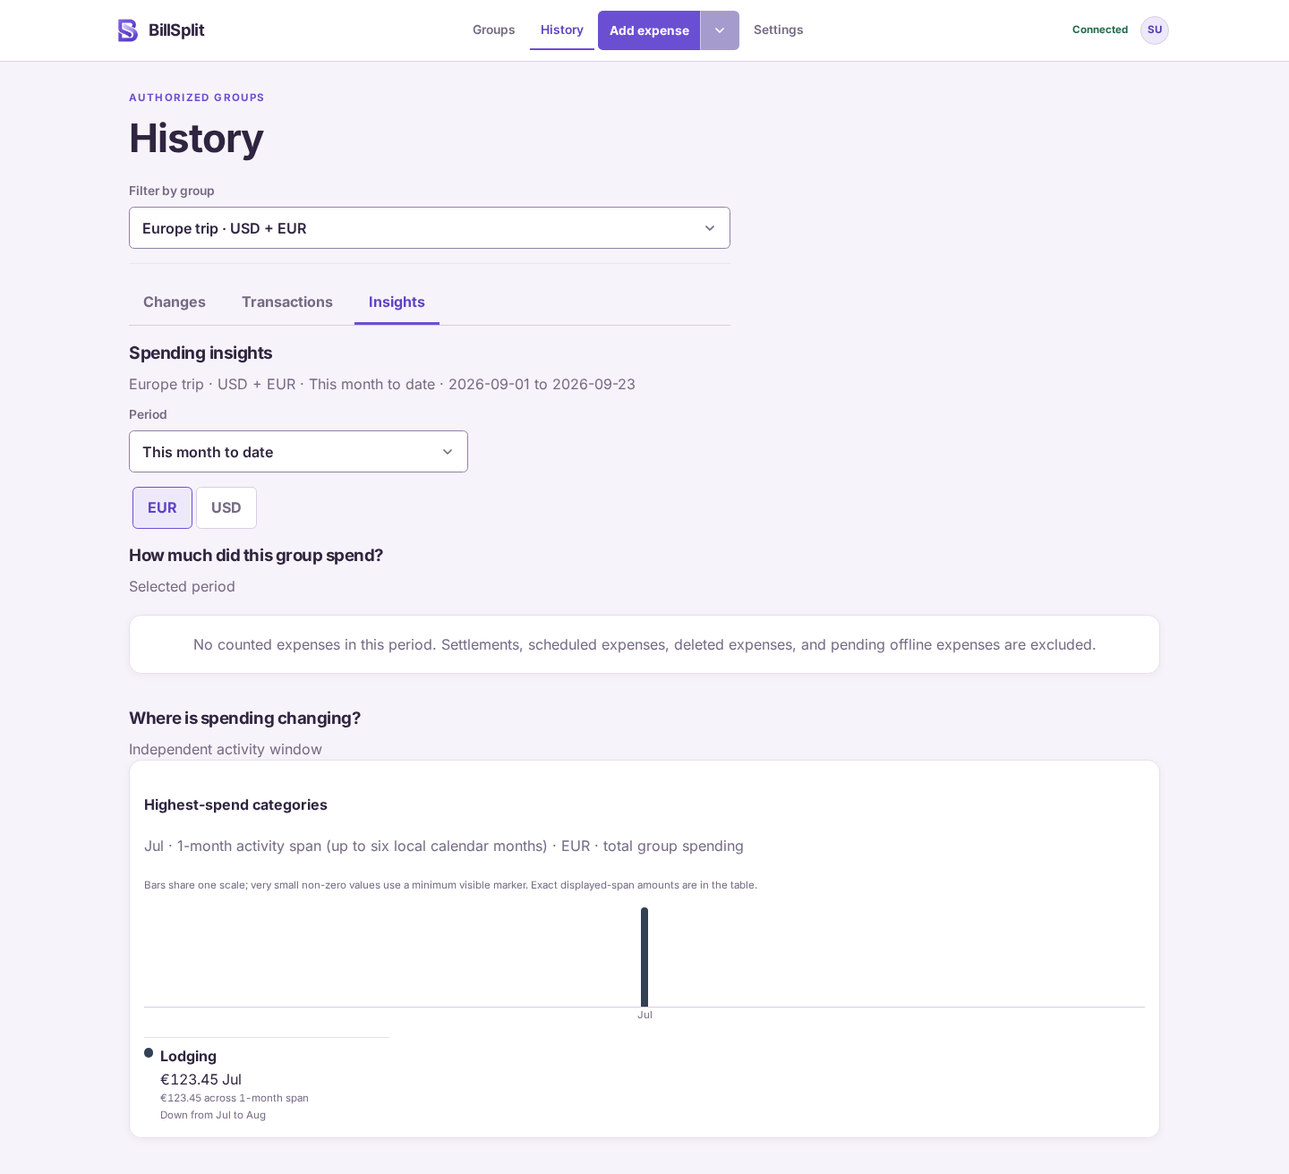
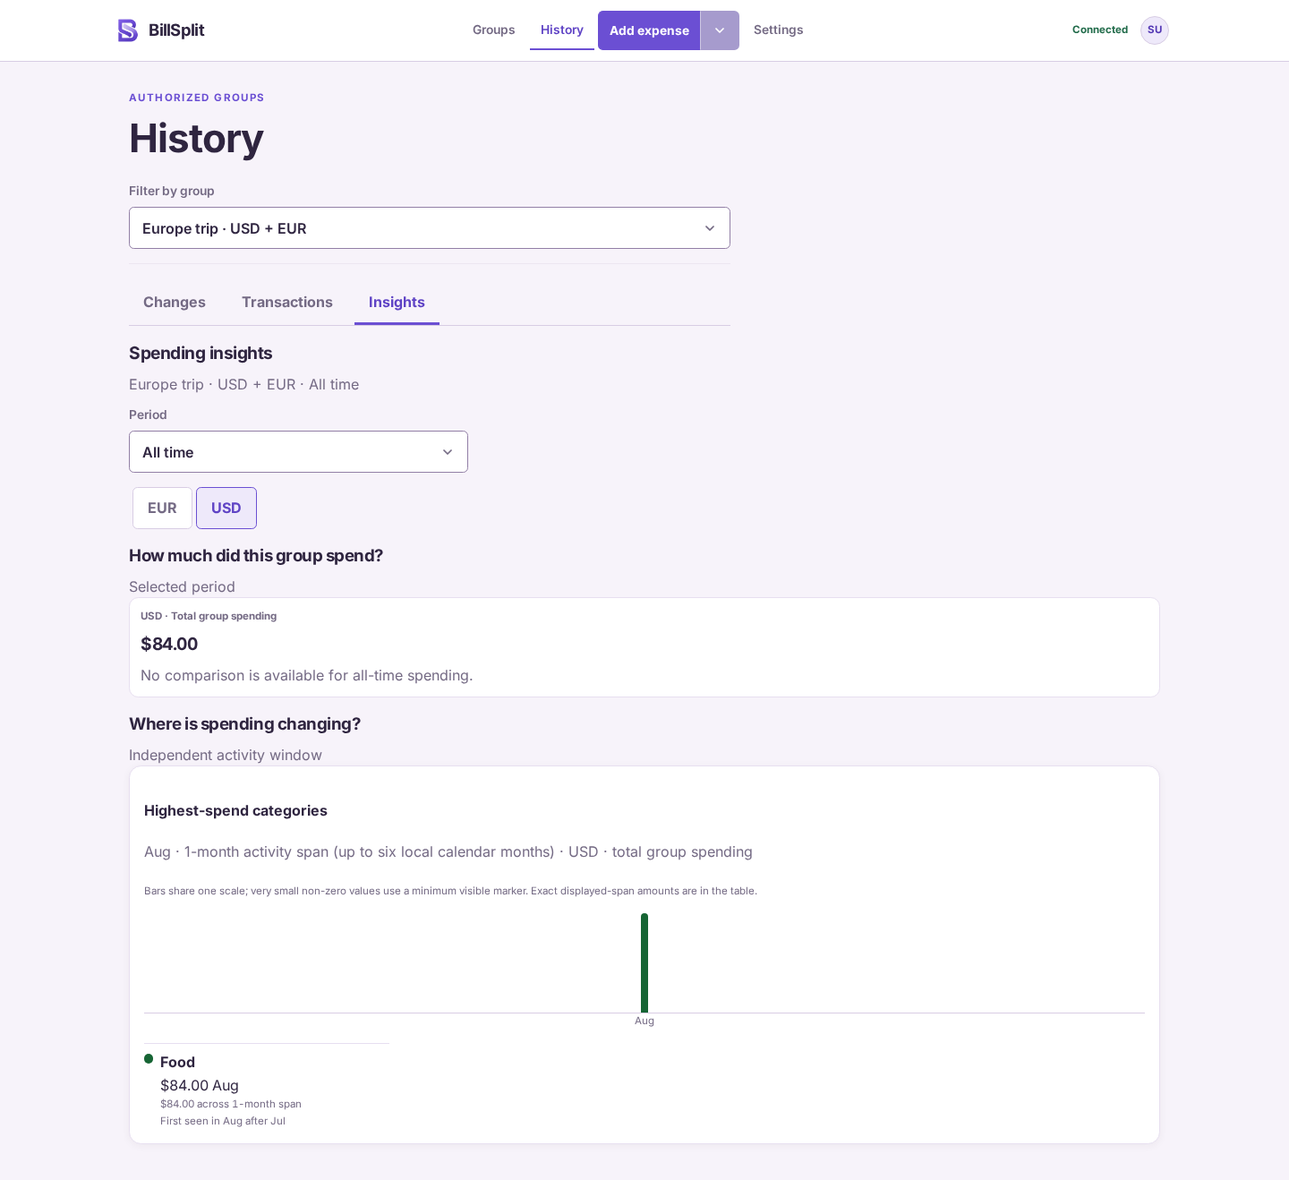
Align Home cards and Insights summaries (#30)

diff --git a/tests/e2e/home-insights-surfaces.spec.ts b/tests/e2e/home-insights-surfaces.spec.ts
@@ -1,0 +1,109 @@
+import { test, expect, newAuthenticatedContext, BASE_URL, DEV_EMAIL } from './fixtures';
+
+const shortId = '00000000-0000-4000-8000-000000003001';
+const longId = '00000000-0000-4000-8000-000000003003';
+const insightsId = '00000000-0000-4000-8000-000000003002';
+
+test('Home cards retain compact, accessible balance geometry across the navigation boundary', async ({ browser }) => {
+  for (const width of [320, 390, 768, 895, 896, 1440]) {
+    const context = await newAuthenticatedContext(browser, DEV_EMAIL, { width, height: 844 }, { serviceWorkers: 'block' });
+    try {
+      const page = await context.newPage();
+      await page.route('**/api/groups', async (route) => {
+        const response = await route.fetch();
+        const body = await response.json();
+        await route.fulfill({ response, json: { ...body, groups: [
+          { ...body.groups[0], id: shortId, name: 'Li Ling', currency: 'SGD', kind: 'named', memberCount: 2, balanceSummaries: [{ currency: 'SGD', netMinor: 4216 }] },
+          { ...body.groups.find((group: { id: string }) => group.id === longId), name: 'Maternity household and shared care expenses', currency: 'SGD', kind: 'named', memberCount: 9, balanceSummaries: [{ currency: 'SGD', netMinor: 543972 }, { currency: 'EUR', netMinor: -12345 }] },
+        ] } });
+      });
+      await page.goto(`${BASE_URL}/`);
+      await expect(page.getByRole('heading', { name: 'Friends & groups' })).toBeVisible();
+      const cards = page.locator('a.group-card');
+      await expect(cards).toHaveCount(2);
+      for (const [index, id] of [shortId, longId].entries()) {
+        await expect(cards.nth(index)).toHaveAttribute('href', `/groups/${id}`);
+        await expect(cards.nth(index)).toHaveAccessibleName(index === 0 ? /Li Ling.*SGD.*42\.16/s : /Maternity household.*SGD.*5,439\.72.*EUR.*123\.45/s);
+      }
+      const geometry = await page.evaluate(() => {
+        const cards = [...document.querySelectorAll<HTMLElement>('.group-card')];
+        const rect = (element: Element) => element.getBoundingClientRect();
+        const probe = document.createElement('div');
+        probe.style.cssText = 'background: var(--color-surface); border: 1px solid var(--color-border)';
+        document.body.append(probe);
+        const surfaceColor = getComputedStyle(probe).backgroundColor;
+        const border = getComputedStyle(probe).borderTopColor;
+        probe.remove();
+        return {
+          clientWidth: document.documentElement.clientWidth,
+          scale: visualViewport?.scale,
+          scrollWidth: document.documentElement.scrollWidth,
+          cards: cards.map((card) => ({
+            box: { left: rect(card).left, right: rect(card).right, top: rect(card).top, bottom: rect(card).bottom, height: rect(card).height },
+            gap: rect(card.querySelector('.card__balances')!).top - rect(card.querySelector('.group-card__identity')!).bottom,
+            paintedRows: [...card.querySelectorAll('.card__balance')].filter((row) => {
+              const style = getComputedStyle(row);
+              return style.backgroundColor !== 'rgba(0, 0, 0, 0)' || style.boxShadow !== 'none' || parseFloat(style.borderTopWidth) > 0;
+            }).length,
+            balances: [...card.querySelectorAll('.card__balance')].map((row) => row.textContent?.trim()),
+            clipped: [...card.querySelectorAll<HTMLElement>('.group-card__identity, .card__balances, .card__balance, .money')].some((child) => child.scrollWidth > child.clientWidth + 1 || rect(child).right > rect(card).right + 1),
+            background: getComputedStyle(card).backgroundColor,
+            border: getComputedStyle(card).borderTopColor,
+            borderWidth: getComputedStyle(card).borderTopWidth,
+          })),
+          surfaceColor,
+          border,
+          actions: [...document.querySelectorAll('.home-actions a')].map((link) => link.getAttribute('href')),
+          nav: { mobile: getComputedStyle(document.querySelector('.bottom-nav')!).display, desktop: getComputedStyle(document.querySelector('.desktop-nav')!).display },
+        };
+      });
+      expect(geometry.scrollWidth, JSON.stringify({ width, geometry })).toBeLessThanOrEqual(geometry.clientWidth);
+      expect(geometry.cards.every((card) => card.background === geometry.surfaceColor && card.border === geometry.border && card.borderWidth === '1px' && !card.clipped && !card.paintedRows && card.gap >= 0 && card.gap <= 24 && card.box.left >= 0 && card.box.right <= geometry.clientWidth + 1), JSON.stringify({ width, geometry })).toBe(true);
+      expect(geometry.cards[0].balances).toEqual([expect.stringMatching(/SGD.*42\.16/)]);
+      expect(geometry.cards[1].balances).toEqual([expect.stringMatching(/SGD.*5,439\.72/), expect.stringMatching(/EUR.*123\.45/)]);
+      for (const balance of geometry.cards.flatMap((card) => card.balances)) expect(balance?.match(/(?:SGD|EUR)/g)).toHaveLength(1);
+      expect(geometry.cards[0].box.height).toBeLessThan(geometry.cards[1].box.height);
+      expect(geometry.cards[0].box.top === geometry.cards[1].box.top).toBe(width >= 896);
+      const intercardGap = width >= 896
+        ? geometry.cards[1].box.left - geometry.cards[0].box.right
+        : geometry.cards[1].box.top - geometry.cards[0].box.bottom;
+      expect(intercardGap, JSON.stringify({ width, geometry })).toBeGreaterThan(0);
+      expect(intercardGap, JSON.stringify({ width, geometry })).toBeLessThanOrEqual(32);
+      expect(geometry.actions).toEqual(['/friends/new', '/groups/new']);
+      expect(geometry.nav.mobile === 'none').toBe(width >= 896);
+      expect(geometry.nav.desktop === 'none').toBe(width < 896);
+    } finally {
+      await context.close();
+    }
+  }
+});
+
+for (const width of [390, 1440]) {
+  for (const scope of ['global', 'group'] as const) {
+    test(`${scope} Insights summary and chart are independent painted modules at ${width}px`, async ({ authenticatedPage: page }) => {
+      await page.setViewportSize({ width, height: 844 });
+      await page.goto(`/activity?${scope === 'group' ? `group=${insightsId}&` : ''}view=insights&period=all&currency=USD`);
+      await expect(page.getByRole('navigation', { name: 'History views' }).getByRole('link', { name: 'Insights' })).toHaveAttribute('aria-current', 'page');
+      await expect(page.getByRole('tablist', { name: 'Spending insight currencies' }).getByRole('tab', { name: 'USD' })).toHaveAttribute('aria-selected', 'true');
+      await expect(page.getByLabel('Selected-period spending summary')).toBeVisible();
+      await expect(page.getByRole('group', { name: 'USD category spending chart' })).toBeVisible();
+      const geometry = await page.evaluate(() => {
+        const summary = document.querySelector('.insight-summary-card')!;
+        const chart = document.querySelector('.insight-category-trends')!;
+        const color = (node: Element) => getComputedStyle(node).backgroundColor;
+        return {
+          expected: (() => { const probe = document.createElement('div'); probe.style.backgroundColor = 'var(--color-surface)'; document.body.append(probe); const result = color(probe); probe.remove(); return result; })(),
+          summary: color(summary), chart: color(chart),
+          sections: [...document.querySelectorAll('.insight-section')].map(color),
+          separate: !summary.contains(chart) && !chart.contains(summary) && summary.closest('.insight-section') !== chart.closest('.insight-section'),
+          overflow: document.documentElement.scrollWidth > document.documentElement.clientWidth,
+        };
+      });
+      expect(geometry.summary).toBe(geometry.expected);
+      expect(geometry.chart).toBe(geometry.summary);
+      expect(geometry.sections).toEqual(['rgba(0, 0, 0, 0)', 'rgba(0, 0, 0, 0)']);
+      expect(geometry.separate).toBe(true);
+      expect(geometry.overflow).toBe(false);
+    });
+  }
+}

diff --git a/src/app/App.tsx b/src/app/App.tsx
@@ -293,7 +293,7 @@ function Home() {
        <PageHeader className="page-title" eyebrow="Private expenses" title="Friends & groups" actions={<ActionGroup className="home-actions"><Link className="button" to="/friends/new">Add friend</Link><Link className="button button--secondary" to="/groups/new">New group</Link></ActionGroup>} />
         <PendingInvitations userId={me.data?.id} online={online && !offline} />
        {!online || offline ? <ConnectionBanner detail="showing your last verified groups. Friend and group creation require a connection; Add Expense remains available from cached groups." /> : null}{groupsResource.data !== undefined ? <CachedIdentityNotice resource={me} id="groups-identity-error" /> : null}{groupsResource.data === undefined && me.error ? <ErrorBox error={me.error} onRetry={retryFor(resourceKeys.identity(), '')} id="identity-error" retryLabel="Retry identity check" /> : null}
-       {groupsResource.data === undefined && !me.error ? <ResourceNotice resource={groupsResource} label="groups" retry={retryFor(resourceKeys.groups(me.data?.id || 'pending'), me.data?.id)} /> : groupsResource.data !== undefined ? <><ResourceNotice resource={groupsResource} label="groups" retry={retryFor(resourceKeys.groups(me.data?.id || 'pending'), me.data?.id)} />{groups.length ? <div className="cards group-cards">{groups.map((group) => { const people = [{ name: 'You' }, ...(group.counterpartName ? [{ name: group.counterpartName }] : [])]; return <Link className="card group-card" to={`/groups/${group.id}`} key={group.id}><div className="group-card__identity"><div className="group-card__heading"><AvatarStack people={people} /><strong className="card__name">{groupDisplayName(group)}</strong></div><span className="group-card__meta">{group.memberCount ? `${group.memberCount} ${group.memberCount === 1 ? 'person' : 'people'}` : group.kind === 'peer' ? 'Friend ledger' : 'Shared ledger'} · {group.currency}</span></div><div className="card__balances">{groupBalanceDisplays(group.balanceSummaries, group.currency).map((display, index) => display.kind === 'balance' ? <span className="card__balance" key={`${display.currency}-${index}`}><span className="card__balance-label">{display.label}</span><span className="card__balance-money"><Money amountMinor={display.amountMinor} currency={display.currency} tone={display.label === 'You are owed' ? 'positive' : 'debt'} /><small>{display.currency}</small></span></span> : <span className={`card__balance card__balance--${display.kind}`} key={`${display.label}-${index}`}><span className="card__balance-label">{display.label}</span><small>{display.currency}</small></span>)}</div></Link>; })}</div> : <EmptyState title="No groups yet"><p className="empty-state__copy">Start a friend ledger for a quick one-to-one split, or create a shared group for a trip or household.</p><div className="empty-state__actions"><Link className="button" to="/friends/new">Add a friend</Link><Link className="button button--secondary" to="/groups/new">Create a group</Link></div></EmptyState>}</> : null}
+        {groupsResource.data === undefined && !me.error ? <ResourceNotice resource={groupsResource} label="groups" retry={retryFor(resourceKeys.groups(me.data?.id || 'pending'), me.data?.id)} /> : groupsResource.data !== undefined ? <><ResourceNotice resource={groupsResource} label="groups" retry={retryFor(resourceKeys.groups(me.data?.id || 'pending'), me.data?.id)} />{groups.length ? <div className="cards group-cards">{groups.map((group) => { const people = [{ name: 'You' }, ...(group.counterpartName ? [{ name: group.counterpartName }] : [])]; return <Link className="card group-card ui-card-surface" to={`/groups/${group.id}`} key={group.id}><div className="group-card__identity"><div className="group-card__heading"><AvatarStack people={people} /><strong className="card__name">{groupDisplayName(group)}</strong></div><span className="group-card__meta">{group.memberCount ? `${group.memberCount} ${group.memberCount === 1 ? 'person' : 'people'}` : group.kind === 'peer' ? 'Friend ledger' : 'Shared ledger'} · {group.currency}</span></div><div className="card__balances">{groupBalanceDisplays(group.balanceSummaries, group.currency).map((display, index) => display.kind === 'balance' ? <span className="card__balance" key={`${display.currency}-${index}`}><span className="card__balance-label">{display.label}</span><span className="card__balance-money"><Money amountMinor={display.amountMinor} currency={display.currency} currencyDisplay="code" tone={display.label === 'You are owed' ? 'positive' : 'debt'} /></span></span> : <span className={`card__balance card__balance--${display.kind}`} key={`${display.label}-${index}`}><span className="card__balance-label">{display.label}</span><small>{display.currency}</small></span>)}</div></Link>; })}</div> : <EmptyState title="No groups yet"><p className="empty-state__copy">Start a friend ledger for a quick one-to-one split, or create a shared group for a trip or household.</p><div className="empty-state__actions"><Link className="button" to="/friends/new">Add a friend</Link><Link className="button button--secondary" to="/groups/new">Create a group</Link></div></EmptyState>}</> : null}
        <CompactInsights userId={me.data?.id} global title="Spending snapshot" />
   </Layout>;
 }

diff --git a/src/app/theme/theme.test.ts b/src/app/theme/theme.test.ts
@@ -13,6 +13,7 @@ const base = read('base.css');
 const foundations = read('foundations.css');
 const shell = read('shell.css');
 const responsive = read('responsive.css');
+const homeCreation = read('home-creation.css');
 const appSource = readFileSync(new URL('../App.tsx', import.meta.url), 'utf8');
 const errorBoundarySource = readFileSync(new URL('../ErrorBoundary.tsx', import.meta.url), 'utf8');
 const uiSource = readFileSync(new URL('../ui.tsx', import.meta.url), 'utf8');
@@ -120,6 +121,15 @@ describe('Warm Ledger visual system', () => {
     expect(895).toBeLessThan(896);
   });
 
+  it('keeps group cards single-column until desktop and content-height beside taller cards', () => {
+    expect(homeCreation).toMatch(/\.group-cards\s*\{\s*align-items: start;\s*\}/);
+    expect(homeCreation).not.toMatch(/\.group-cards\s*\{[^}]*grid-template-columns:/);
+    const tablet = responsive.match(/@media \(min-width: 48rem\) \{([\s\S]*?)\n\}\s*@media \(min-width: 56rem\)/)?.[1] ?? '';
+    const desktop = responsive.match(/@media \(min-width: 56rem\) \{([\s\S]*?)\n\}\s*@media \(prefers-reduced-motion: reduce\)/)?.[1] ?? '';
+    expect(tablet).toMatch(/\.cards\s*\{[^}]*grid-template-columns: repeat\(auto-fit, minmax\(15rem, 1fr\)\);[^}]*\}\s*\.group-cards\s*\{\s*grid-template-columns: minmax\(0, 1fr\);\s*\}/);
+    expect(desktop).toMatch(/\.group-cards\s*\{\s*grid-template-columns: repeat\(2, minmax\(0, 1fr\)\);\s*\}/);
+  });
+
   it('preserves safe-area spacing and reserves the mobile navigation', () => {
     expect(tokens).toMatch(/--safe-(top|right|bottom|left): env\(safe-area-inset-/);
     expect(shell).toContain('padding: calc(var(--space-3) + var(--safe-top))');
@@ -182,6 +192,9 @@ describe('Warm Ledger visual system', () => {
     expect(css).toMatch(/\.insight-metric\s*\{[\s\S]*border-bottom: 1px solid var\(--color-divider\);[\s\S]*padding: var\(--space-3\) 0;/);
     expect(css).not.toMatch(/\.insight-metric\s*\{[^}]*border:\s*1px solid/);
     expect(css).toMatch(/\.insight-summary-card\s*\{[\s\S]*border: 1px solid var\(--color-border\);/);
+    expect(css).toMatch(/\.insight-summary-card\s*\{[^}]*background: var\(--color-surface\);/);
+    expect(appSource).toContain('className="card group-card ui-card-surface"');
+    expect(appSource).toContain('currencyDisplay="code"');
     expect(css).toMatch(/\.insight-category-trends\s*\{[\s\S]*border: 1px solid var\(--color-border\);/);
     expect(appSource).toContain('className="creation-form-surface"');
     expect(refundSource()).toContain('<FormSurface className="refund-form__surface"><form');

diff --git a/src/app/theme/home-creation.css b/src/app/theme/home-creation.css
@@ -237,6 +237,10 @@
   gap: var(--space-3);
 }
 
+.group-cards {
+  align-items: start;
+}
+
 .creation-form-surface {
   width: min(100%, var(--reading-max));
 }
@@ -252,11 +256,10 @@
 }
 
 .group-card {
-  display: flex;
-  align-items: center;
-  justify-content: space-between;
+  display: grid;
+  align-content: start;
   min-height: 4.5rem;
-  gap: var(--space-4);
+  gap: var(--space-2);
   padding: var(--space-4) var(--space-5);
   color: var(--color-text);
   text-decoration: none;
@@ -265,7 +268,6 @@
 .group-card__identity {
   display: grid;
   min-width: 0;
-  flex: 1 1 12rem;
   gap: var(--space-1);
 }
 
@@ -288,17 +290,14 @@
 }
 
 .card__name {
-  flex: 1 1 10rem;
+  min-width: 0;
+  overflow-wrap: anywhere;
 }
 
 .card__balances {
   display: grid;
   min-width: 0;
-  max-width: min(58%, 15rem);
-  flex: 0 1 15rem;
   gap: var(--space-1);
-  justify-items: end;
-  text-align: right;
 }
 
 .card__balance {
@@ -306,7 +305,7 @@
   min-width: 0;
   max-width: 100%;
   align-items: baseline;
-  justify-content: flex-end;
+  justify-content: space-between;
   gap: var(--space-2);
 }
 
@@ -349,30 +348,6 @@
 .group-card > strong {
   min-width: 0;
   overflow-wrap: anywhere;
-}
-
-@media (min-width: 56rem) {
-  /* Give the identity column the full card width before the balance summary.
-     This keeps long group names editorial rather than reducing them to one
-     word per line beside the amount column. */
-  .group-card {
-    align-items: stretch;
-    flex-direction: column;
-  }
-
-  .group-card__identity,
-  .card__balances {
-    width: 100%;
-    max-width: none;
-  }
-
-  .group-card__identity {
-    flex: 0 1 auto;
-  }
-
-  .card__balances {
-    flex: 0 1 auto;
-  }
 }
 
 .creation-person {

diff --git a/src/app/ui.tsx b/src/app/ui.tsx
@@ -375,8 +375,8 @@ export function Field({ label, children, className = '', error, errorId }: { lab
   return <label className={`field ${className}`.trim()}><span>{label}</span>{describedChild}{error ? <small id={resolvedErrorId} className="field-error" role="alert">{error}</small> : null}</label>;
 }
 
-export function Money({ amountMinor, currency, tone, size = 'normal' }: { amountMinor: number; currency: string; tone?: 'positive' | 'debt'; size?: 'normal' | 'large' }) {
-  return <strong className={`money money--${size}${tone ? ` money--${tone}` : ''}`}>{new Intl.NumberFormat(undefined, { style: 'currency', currency }).format(amountMinor / 100)}</strong>;
+export function Money({ amountMinor, currency, tone, size = 'normal', currencyDisplay = 'symbol' }: { amountMinor: number; currency: string; tone?: 'positive' | 'debt'; size?: 'normal' | 'large'; currencyDisplay?: 'symbol' | 'code' }) {
+  return <strong className={`money money--${size}${tone ? ` money--${tone}` : ''}`}>{new Intl.NumberFormat(undefined, { style: 'currency', currency, currencyDisplay }).format(amountMinor / 100)}</strong>;
 }
 
 export function Status({ children, tone }: { children: ReactNode; tone: 'positive' | 'debt' | 'warning' | 'neutral' }) {

diff --git a/src/app/theme/responsive.css b/src/app/theme/responsive.css
@@ -129,25 +129,6 @@
     margin-inline: auto;
   }
 
-.group-card {
-    align-items: stretch;
-    flex-direction: column;
-  }
-
-  .group-card .card__balances {
-    flex: 0 1 auto;
-    width: 100%;
-    max-width: none;
-    align-items: flex-start;
-    justify-items: start;
-    text-align: left;
-  }
-
-  .group-card .card__balance {
-    width: 100%;
-    justify-content: space-between;
-  }
-
   .route-view--expense .amount-field {
     padding-inline: var(--space-4);
   }
@@ -345,6 +326,10 @@
     grid-template-columns: repeat(auto-fit, minmax(15rem, 1fr));
   }
 
+  .group-cards {
+    grid-template-columns: minmax(0, 1fr);
+  }
+
   .activity-filter {
     margin-bottom: var(--space-5);
   }
@@ -363,6 +348,10 @@
 }
 
 @media (min-width: 56rem) {
+  .group-cards {
+    grid-template-columns: repeat(2, minmax(0, 1fr));
+  }
+
 .public-shell {
     padding-left: max(var(--space-6), var(--safe-left));
     padding-right: max(var(--space-6), var(--safe-right));

diff --git a/src/app/theme/history-insights.css b/src/app/theme/history-insights.css
@@ -131,6 +131,7 @@ border: 0;
   gap: var(--space-2);
   border: 1px solid var(--color-border);
   border-radius: var(--radius-md);
+  background: var(--color-surface);
   padding: var(--space-3);
 }
 

diff --git a/docs/responsive-audit-matrix.md b/docs/responsive-audit-matrix.md
@@ -4,6 +4,35 @@ Canonical audit widths are **320, 390, 768, 895, 896, and 1440px**. The
 private shell keeps the mobile bottom navigation through 895px and switches to
 the desktop top navigation and two-column group overview at 896px.
 
+| Home / Insights state | 320px | 390px | 768px | 895px | 896px | 1440px |
+| --- | --- | --- | --- | --- | --- | --- |
+| Populated Home groups | Single compact, content-height white linked cards; wrapped names and ISO-coded numeric balances remain readable with no painted inner rows | Same; primary group links precede management | One readable column | One column and bottom navigation | Up to two columns and desktop navigation | Two readable columns; no stretched card heights |
+| Home loading, cached, offline, empty, error | Skeleton/notice, cached/offline status, empty-state creation actions, and retry remain distinct; no inaccessible group links when data is absent | Same | Same | Same | Same | Same |
+| Global and group Insights summary/chart | Route audit only | Focused summary/chart paint, transparent sections, tabs and chart accessibility | Route audit only | Route audit only | Route audit only | Focused summary/chart paint, transparent sections, tabs and chart accessibility |
+
+`tests/e2e/home-insights-surfaces.spec.ts` checks populated Home card paint,
+content-height geometry, destinations, currency labels, action order and navigation
+at all six widths with two intercepted realistic groups (long name, large SGD
+balance and EUR debt). Global and group Insights summary/chart paint, transparent
+sections, accessible tabs and chart are checked at 390 and 1440px; other Insights
+widths and Home loading/cached/offline/empty/error states remain in the existing
+route audit and targeted fixtures, not this focused geometry spec.
+
+Loaded local-browser references from the merged-main UI with these fixes:
+`docs/screenshots/home-mobile.png` (390px, full page) and `home-desktop.png`
+(1440px viewport) show seeded Home; `home-sgd-stress-mobile.png` (390px,
+full page) and `home-sgd-stress-desktop.png` (1440px viewport) show the
+two-group API overlay (Li Ling, SGD 42.16; nine-person Maternity household
+and shared care expenses, SGD 5,439.72 and EUR 123.45 owed). The loaded
+all-time USD references `spending-insights-global-mobile.png`,
+`spending-insights-group-mobile.png` (390px full page),
+`spending-insights-global-desktop.png`, and
+`spending-insights-group-desktop.png` (1440px full page) show separate filled
+summary and chart surfaces; `warm-ledger-insights-desktop.png` is the same
+1440px group Insights view. The mobile bottom navigation was confirmed live
+and hidden only for full-page capture to avoid a repeated fixed stripe. These
+references do not depict loading, cached, offline, empty, or error states.
+
 The refund/reimbursement matrix below remains the release checklist for the
 dedicated online-only refund flow. The Warm Ledger states cover the newer
 credit and shell surfaces without replacing those refund-specific checks.

diff --git a/design.md b/design.md
@@ -175,6 +175,11 @@ nearest section or ledger group.
 ### Route surface rules
 
 - **Home** keeps group cards as the primary navigation surfaces. The spending
+  group links themselves carry the single white card surface (no nested painted
+  balances); content determines their height, with one column through 895px and
+  at most two readable columns from 896px. Numeric balances show their ISO code
+  once, including mixed-currency ledgers; settled/unavailable labels retain a
+  currency code. The spending
   snapshot is a borderless section with aligned, divider-separated currency
   rows; its outer section and metric rows are not cards. Invitations and the
   no-groups empty state remain contained because they need distinct status and
@@ -195,7 +200,8 @@ nearest section or ledger group.
   Transaction and activity results are transparent divider-separated ledger
   rows; the history page itself is not a card.
 - **Insights** keeps the page and filter controls in flow. Only intentional
-  summary and chart modules may be contained, and they must not introduce
+  summary and chart modules use solid white surfaces inside a transparent
+  section, and they must not introduce
   painted cards inside painted cards. The exact-value table remains available
   to assistive technology and the existing loading, cached, offline, empty,
   and error states remain explicit.
